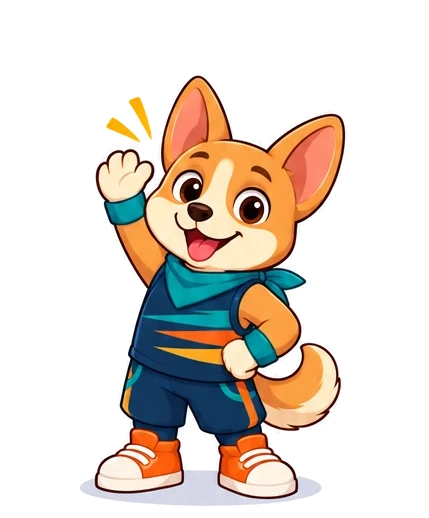
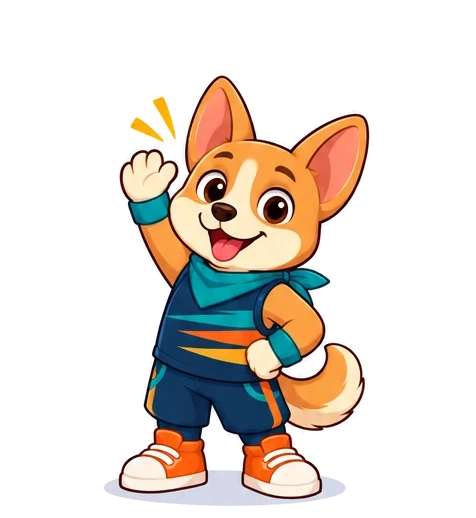
Add sheet-1 mascot poses (hero, actions, faces) for base and Halloween
slice_mascot.py now handles both sheet layouts, scales sheet 1 to sheet 2's
size, and keeps each sparkle/mark whole with the right figure.

diff --git a/scripts/slice_mascot.py b/scripts/slice_mascot.py
@@ -1,7 +1,16 @@
-"""Slice a 4/3/3 mascot sheet into individual transparent WebP poses.
+"""Slice Indie mascot sheets into individual transparent WebP poses.
 
-usage: python slice_mascot.py <out_root> <season>=<sheet> [<season>=<sheet> ...]
-All seasons share one canvas size per kind (body / face) so poses swap without jumping.
+usage (from the repo root; needs Pillow, NumPy, SciPy):
+  python scripts/slice_mascot.py <out_root> <season>=<sheet>:<layout> [...]
+
+layouts:
+  moods    indie-2d-sheet-2 layout — 4 bodies / 3 bodies / 3 busts
+  actions  indie-2d-sheet layout   — big hero / 5 turnaround / 4 action bodies / 6 busts
+
+Every season gets the same file names. All bodies share one canvas, all faces another, both
+bottom-aligned, and the actions sheet (drawn at a smaller scale) is resized to match the moods
+sheet — so swapping pose or season never makes Indie jump or change size. Always pass the base
+sheets in the same run as a new season so the shared canvases cover every season.
 """
 import sys
 from pathlib import Path
@@ -10,25 +19,36 @@ import numpy as np
 from PIL import Image
 from scipy import ndimage as ndi
 
-# Reading order on the sheet (row 1: 4 bodies, row 2: 3 bodies, row 3: 3 busts).
-NAMES = [
-    ("wave-hello", "body"), ("oops-sorry", "body"), ("waiting-watch", "body"), ("hold-on", "body"),
-    ("trophy-champion", "body"), ("napping", "body"), ("welcome-open-arms", "body"),
-    ("face-sad", "face"), ("face-worried", "face"), ("face-sleepy", "face"),
-]
 PAD = 12
+SKIP = None
+# Rows top-to-bottom, figures left-to-right. "ref-*" figures are measured for scaling, not saved.
+LAYOUTS = {
+    "moods": [
+        [("wave-hello", "body"), ("oops-sorry", "body"), ("waiting-watch", "body"), ("hold-on", "body")],
+        [("trophy-champion", "body"), ("napping", "body"), ("welcome-open-arms", "body")],
+        [("face-sad", "face"), ("face-worried", "face"), ("face-sleepy", "face")],
+    ],
+    "actions": [
+        [("hero-standing", "hero")],
+        [("turnaround-front", "ref-body"), SKIP, SKIP, SKIP, SKIP],
+        [("run-lets-go", "body"), ("celebrate-jump", "body"), ("wink-nice", "body"), ("throw-game-on", "body")],
+        [("face-smile", "face"), ("face-wink", "face"), ("face-excited", "face"),
+         ("face-surprised", "face"), ("face-thinking", "face"), ("face-laughing", "face")],
+    ],
+}
+# Same standing pose / same bust framing on both sheets, used to match their scales.
+SCALE_REFS = {"body": ("waiting-watch", "turnaround-front"), "face": ("face-worried", "face-smile")}
 
 
 def cut_out(rgb: np.ndarray):
-    """Return (rgba float, figure labels) with the white sheet background removed."""
+    """Return (rgba float, per-pixel figure label, figure labels) with the white sheet removed."""
     f = rgb.astype(np.float32)
     mn, mx = f.min(axis=2), f.max(axis=2)
     light = (mn > 200) & ((mx - mn) < 40)  # white paper + pale grey ground shadows
     lab, _ = ndi.label(light)
     border = np.unique(np.concatenate([lab[0], lab[-1], lab[:, 0], lab[:, -1]]))
     bg = np.isin(lab, border[border > 0])
-    # include a 2px ring of anti-aliased edge pixels
-    soft = ndi.binary_dilation(bg, iterations=2)
+    soft = ndi.binary_dilation(bg, iterations=2)  # + 2px ring of anti-aliased edge pixels
 
     # colour-to-alpha against white: pale shadows become translucent dark shadows,
     # anti-aliased edges lose their white halo.
@@ -40,25 +60,36 @@ def cut_out(rgb: np.ndarray):
     out[soft] = np.clip((f[soft] - 255.0 * (1 - safe)) / safe, 0, 255)
     alpha[alpha < 0.03] = 0
 
-    fg = alpha > 0.15
-    fg = ndi.binary_opening(fg, iterations=1)
-    # Big blobs are the figures; small ones (sparkle lines, "zzz", a dropped ball) are
-    # given to whichever figure is nearest.
-    seeds, n = ndi.label(ndi.binary_dilation(fg, iterations=6))
-    sizes = ndi.sum(fg, seeds, range(1, n + 1))
-    keep = [i + 1 for i, s in enumerate(sizes) if s > 20000]
-    seeds[~np.isin(seeds, keep)] = 0
+    fg = ndi.binary_opening(alpha > 0.15, iterations=1)
+    # Big blobs are the figures. Each small blob (sparkle lines, "zzz", "?", a star, a dropped
+    # ball) goes WHOLE to the nearest figure in its own row, so a mark sitting between two
+    # figures or two rows is never split or handed to the wrong one.
+    blobs, n = ndi.label(ndi.binary_dilation(fg, iterations=1))
+    sizes = ndi.sum(fg, blobs, range(1, n + 1))
+    keep = [i + 1 for i, s in enumerate(sizes) if s > 8000]
+    seeds = np.where(np.isin(blobs, keep), blobs, 0)
+    objs = ndi.find_objects(blobs)
+    bands = [(min(objs[k - 1][0].start for k, _ in r), max(objs[k - 1][0].stop for k, _ in r), [k for k, _ in r])
+             for r in rows_of(seeds, keep)]
+    dist = {k: ndi.distance_transform_edt(seeds != k) for k in keep}
+    for i in range(1, n + 1):
+        if i in keep or sizes[i - 1] == 0:
+            continue
+        sl = objs[i - 1]
+        cy = (sl[0].start + sl[0].stop) / 2
+        cands = next((ks for top, bot, ks in bands if top <= cy <= bot), keep)
+        mask = blobs[sl] == i
+        best = min(cands, key=lambda k: dist[k][sl][mask].min())
+        seeds[sl][mask] = best
+    # faint pixels outside every blob (soft shadow edges) follow the nearest figure pixel
     _, (iy, ix) = ndi.distance_transform_edt(seeds == 0, return_indices=True)
     grouped = np.where(alpha > 0, seeds[iy, ix], 0)
-    rgba = np.dstack([out, alpha * 255.0])
-    return rgba, grouped, keep
+    return np.dstack([out, alpha * 255.0]), grouped, keep
 
 
-def order(grouped, keep):
+def rows_of(grouped, keep):
     objs = ndi.find_objects(grouped)
-    boxes = [(k, objs[k - 1]) for k in keep]
-    # cluster into rows by vertical centre, then left-to-right
-    boxes.sort(key=lambda b: (b[1][0].start + b[1][0].stop) / 2)
+    boxes = sorted(((k, objs[k - 1]) for k in keep), key=lambda b: (b[1][0].start + b[1][0].stop) / 2)
     rows, cur, last = [], [], None
     for b in boxes:
         cy = (b[1][0].start + b[1][0].stop) / 2
@@ -68,30 +99,67 @@ def order(grouped, keep):
         cur.append(b)
         last = cy
     rows.append(cur)
-    return [b for r in rows for b in sorted(r, key=lambda b: b[1][1].start)]
+    return [sorted(r, key=lambda b: b[1][1].start) for r in rows]
+
+
+def resize(region: np.ndarray, scale: float) -> np.ndarray:
+    if abs(scale - 1) < 0.01:
+        return region
+    h, w = region.shape[:2]
+    size = (round(w * scale), round(h * scale))
+    a = region[..., 3:] / 255.0
+    pre = np.dstack([region[..., :3] * a, region[..., 3]])  # premultiply so edges don't darken
+    chans = [np.asarray(Image.fromarray(pre[..., i].astype(np.float32), "F").resize(size, Image.LANCZOS))
+             for i in range(4)]
+    out = np.clip(np.dstack(chans), 0, 255)
+    a2 = np.maximum(out[..., 3:] / 255.0, 1e-6)
+    out[..., :3] = np.where(out[..., 3:] > 0, np.clip(out[..., :3] / a2, 0, 255), 0)
+    return out
 
 
 def main():
     out_root = Path(sys.argv[1])
-    sheets = [arg.split("=", 1) for arg in sys.argv[2:]]
-    crops = {}
-    for season, path in sheets:
+    crops = {}  # (season, name) -> (kind, rgba)
+    layouts = {}  # season -> set of layouts used
+    for arg in sys.argv[2:]:
+        season, rest = arg.split("=", 1)
+        path, layout = rest.rsplit(":", 1)
         rgba, grouped, keep = cut_out(np.array(Image.open(path).convert("RGB")))
-        figs = order(grouped, keep)
-        if len(figs) != len(NAMES):
-            sys.exit(f"{path}: found {len(figs)} figures, expected {len(NAMES)}")
-        for (name, kind), (k, sl) in zip(NAMES, figs):
-            region = rgba[sl].copy()
-            region[..., 3] *= grouped[sl] == k  # drop bits of neighbouring figures
-            ys, xs = np.nonzero(region[..., 3] > 8)
-            region = region[ys.min(): ys.max() + 1, xs.min(): xs.max() + 1]
-            crops[(season, name)] = (kind, region)
+        rows = rows_of(grouped, keep)
+        spec = LAYOUTS[layout]
+        got = [len(r) for r in rows]
+        if got != [len(r) for r in spec]:
+            sys.exit(f"{path}: found rows {got}, expected {[len(r) for r in spec]}")
+        for spec_row, row in zip(spec, rows):
+            for entry, (k, sl) in zip(spec_row, row):
+                if entry is SKIP:
+                    continue
+                name, kind = entry
+                region = rgba[sl].copy()
+                region[..., 3] *= grouped[sl] == k  # drop bits of neighbouring figures
+                ys, xs = np.nonzero(region[..., 3] > 8)
+                crops[(season, name)] = (kind, region[ys.min(): ys.max() + 1, xs.min(): xs.max() + 1])
+        layouts.setdefault(season, set()).add(layout)
 
-    for kind in ("body", "face"):
+    # Bring the actions sheet to the moods sheet's scale (per season, falling back to base).
+    def scale_for(season, kind):
+        big, small = SCALE_REFS[kind]
+        for s in (season, "base"):
+            if (s, big) in crops and (s, small) in crops:
+                return crops[(s, big)][1].shape[0] / crops[(s, small)][1].shape[0]
+        sys.exit(f"no {kind} scale reference for {season}: pass both base sheets")
+
+    # measure every scale before resizing anything (resizing a reference would skew the rest)
+    scales = {(s, k): scale_for(s, k) for s in layouts if "actions" in layouts[s] for k in SCALE_REFS}
+    for (season, name), (kind, r) in list(crops.items()):
+        if kind in ("body", "face") and name in _names("actions"):
+            crops[(season, name)] = (kind, resize(r, scales[(season, kind)]))
+
+    for kind in ("body", "face", "hero"):
         sel = [r for (k, r) in crops.values() if k == kind]
         W = max(r.shape[1] for r in sel) + 2 * PAD
         H = max(r.shape[0] for r in sel) + 2 * PAD
-        for (season, name), (k, r) in crops.items():
+        for (season, name), (k, r) in sorted(crops.items()):
             if k != kind:
                 continue
             canvas = np.zeros((H, W, 4), np.float32)
@@ -102,6 +170,10 @@ def main():
             dest.parent.mkdir(parents=True, exist_ok=True)
             Image.fromarray(canvas.round().astype(np.uint8), "RGBA").save(dest, quality=92, method=6)
             print(f"{dest}  {W}x{H}")
+
+
+def _names(layout):
+    return {e[0] for row in LAYOUTS[layout] for e in row if e is not SKIP and e[1] != "ref-body"}
 
 
 if __name__ == "__main__":

diff --git a/docs/seasonal-theming/mascot.md b/docs/seasonal-theming/mascot.md
@@ -24,30 +24,46 @@ same background rules as the asset prompt pack: transparent in ChatGPT, flat mag
 
 ## ✅ In-app mascot files (sliced 2026-10-10)
 
-Base set = `indie-2d-sheet-2.webp` (owner's pick). Each season is a folder with the **same file
-names**, so the app swaps season by changing only the folder:
+Cut from both 2D sheets. Each season is a folder with the **same 21 file names**, so the app swaps
+season by changing only the folder:
 
 ```
 mobile/assets/mascot/<season>/
-  wave-hello.webp        hold-on.webp            welcome-open-arms.webp
-  oops-sorry.webp        trophy-champion.webp    face-sad.webp
-  waiting-watch.webp     napping.webp            face-worried.webp
-                                                 face-sleepy.webp
+  hero-standing.webp                      (511×704 — welcome / onboarding)
+  Full body (476×518):
+    wave-hello  oops-sorry  waiting-watch  hold-on  trophy-champion  napping  welcome-open-arms
+    run-lets-go  celebrate-jump  wink-nice  throw-game-on
+  Faces (356×359):
+    face-smile  face-wink  face-excited  face-surprised  face-thinking  face-laughing
+    face-sad  face-worried  face-sleepy
 ```
-Seasons done: `base`, `halloween`. Full-body poses share one 429×518 canvas and faces one 356×349
-canvas, bottom-aligned, so swapping poses or seasons never makes Indie jump or resize. Backgrounds
-are transparent; the grey ground shadow became a soft translucent shadow that works in light and
-dark mode.
+Seasons done: `base`, `halloween`. Poses of one kind share a canvas and are bottom-aligned; sheet 1's
+smaller figures are scaled up to sheet 2's size, so swapping pose or season never makes Indie jump or
+resize. Backgrounds are transparent; the grey ground shadow became a soft translucent shadow that
+works in light and dark mode.
 
-New season: generate its edit of `indie-2d-sheet-2.webp` (same 4/3/3 layout), then run from the repo
-root (needs Python with Pillow, NumPy, SciPy):
-```
-python scripts/slice_mascot.py mobile/assets/mascot base=assets/seasons-raw/mascot/indie-2d-sheet-2.webp diwali=assets/seasons-raw/diwali/indie-diwali-sheet-2.webp
-```
-Always pass `base=` too: all seasons are cut to one shared canvas size.
+| File | Was | Main use |
+|---|---|---|
+| `hero-standing` | HERO | Welcome / onboarding |
+| `wave-hello` | N1 | Home hero peek, "Sign out?" |
+| `oops-sorry` | N2 | Error pop-ups |
+| `waiting-watch` | N3 | Pending pop-ups (booking submitted, request sent) |
+| `hold-on` | N4 | Confirmation pop-ups |
+| `trophy-champion` | N5 | Leaderboard |
+| `napping` | N6 | Empty states |
+| `welcome-open-arms` | N7 | Invites, join approved, "No Teams yet" |
+| `run-lets-go` | A1 | Game reminder |
+| `celebrate-jump` | A2 | Big success (booking confirmed, team created, membership activated) |
+| `wink-nice` | A3 | Small success (profile saved, poll posted, invite sent) |
+| `throw-game-on` | A4 | Leaderboard "compete" moments |
+| `face-*` | F1–F9 | In-app notification list, nudges inside the pop-up icon circle |
 
-**Gap:** this set has no "celebrate" (big success, e.g. Booking confirmed) and no "small win"
-pose — those are `A2`/`A3` on `indie-2d-sheet.webp`, not on sheet 2.
+New season: generate its edits of **both** sheets (same layouts), then run from the repo root
+(needs Python with Pillow, NumPy, SciPy). Always include the base sheets in the same run — all
+seasons are cut to shared canvas sizes:
+```
+python scripts/slice_mascot.py mobile/assets/mascot base=assets/seasons-raw/mascot/indie-2d-sheet-2.webp:moods base=assets/seasons-raw/mascot/indie-2d-sheet.webp:actions halloween=assets/seasons-raw/halloween/indie-halloween-sheet-2.webp:moods halloween=assets/seasons-raw/halloween/indie-halloween-sheet.webp:actions diwali=assets/seasons-raw/diwali/indie-diwali-sheet-2.webp:moods diwali=assets/seasons-raw/diwali/indie-diwali-sheet.webp:actions
+```
 
 ---
 
